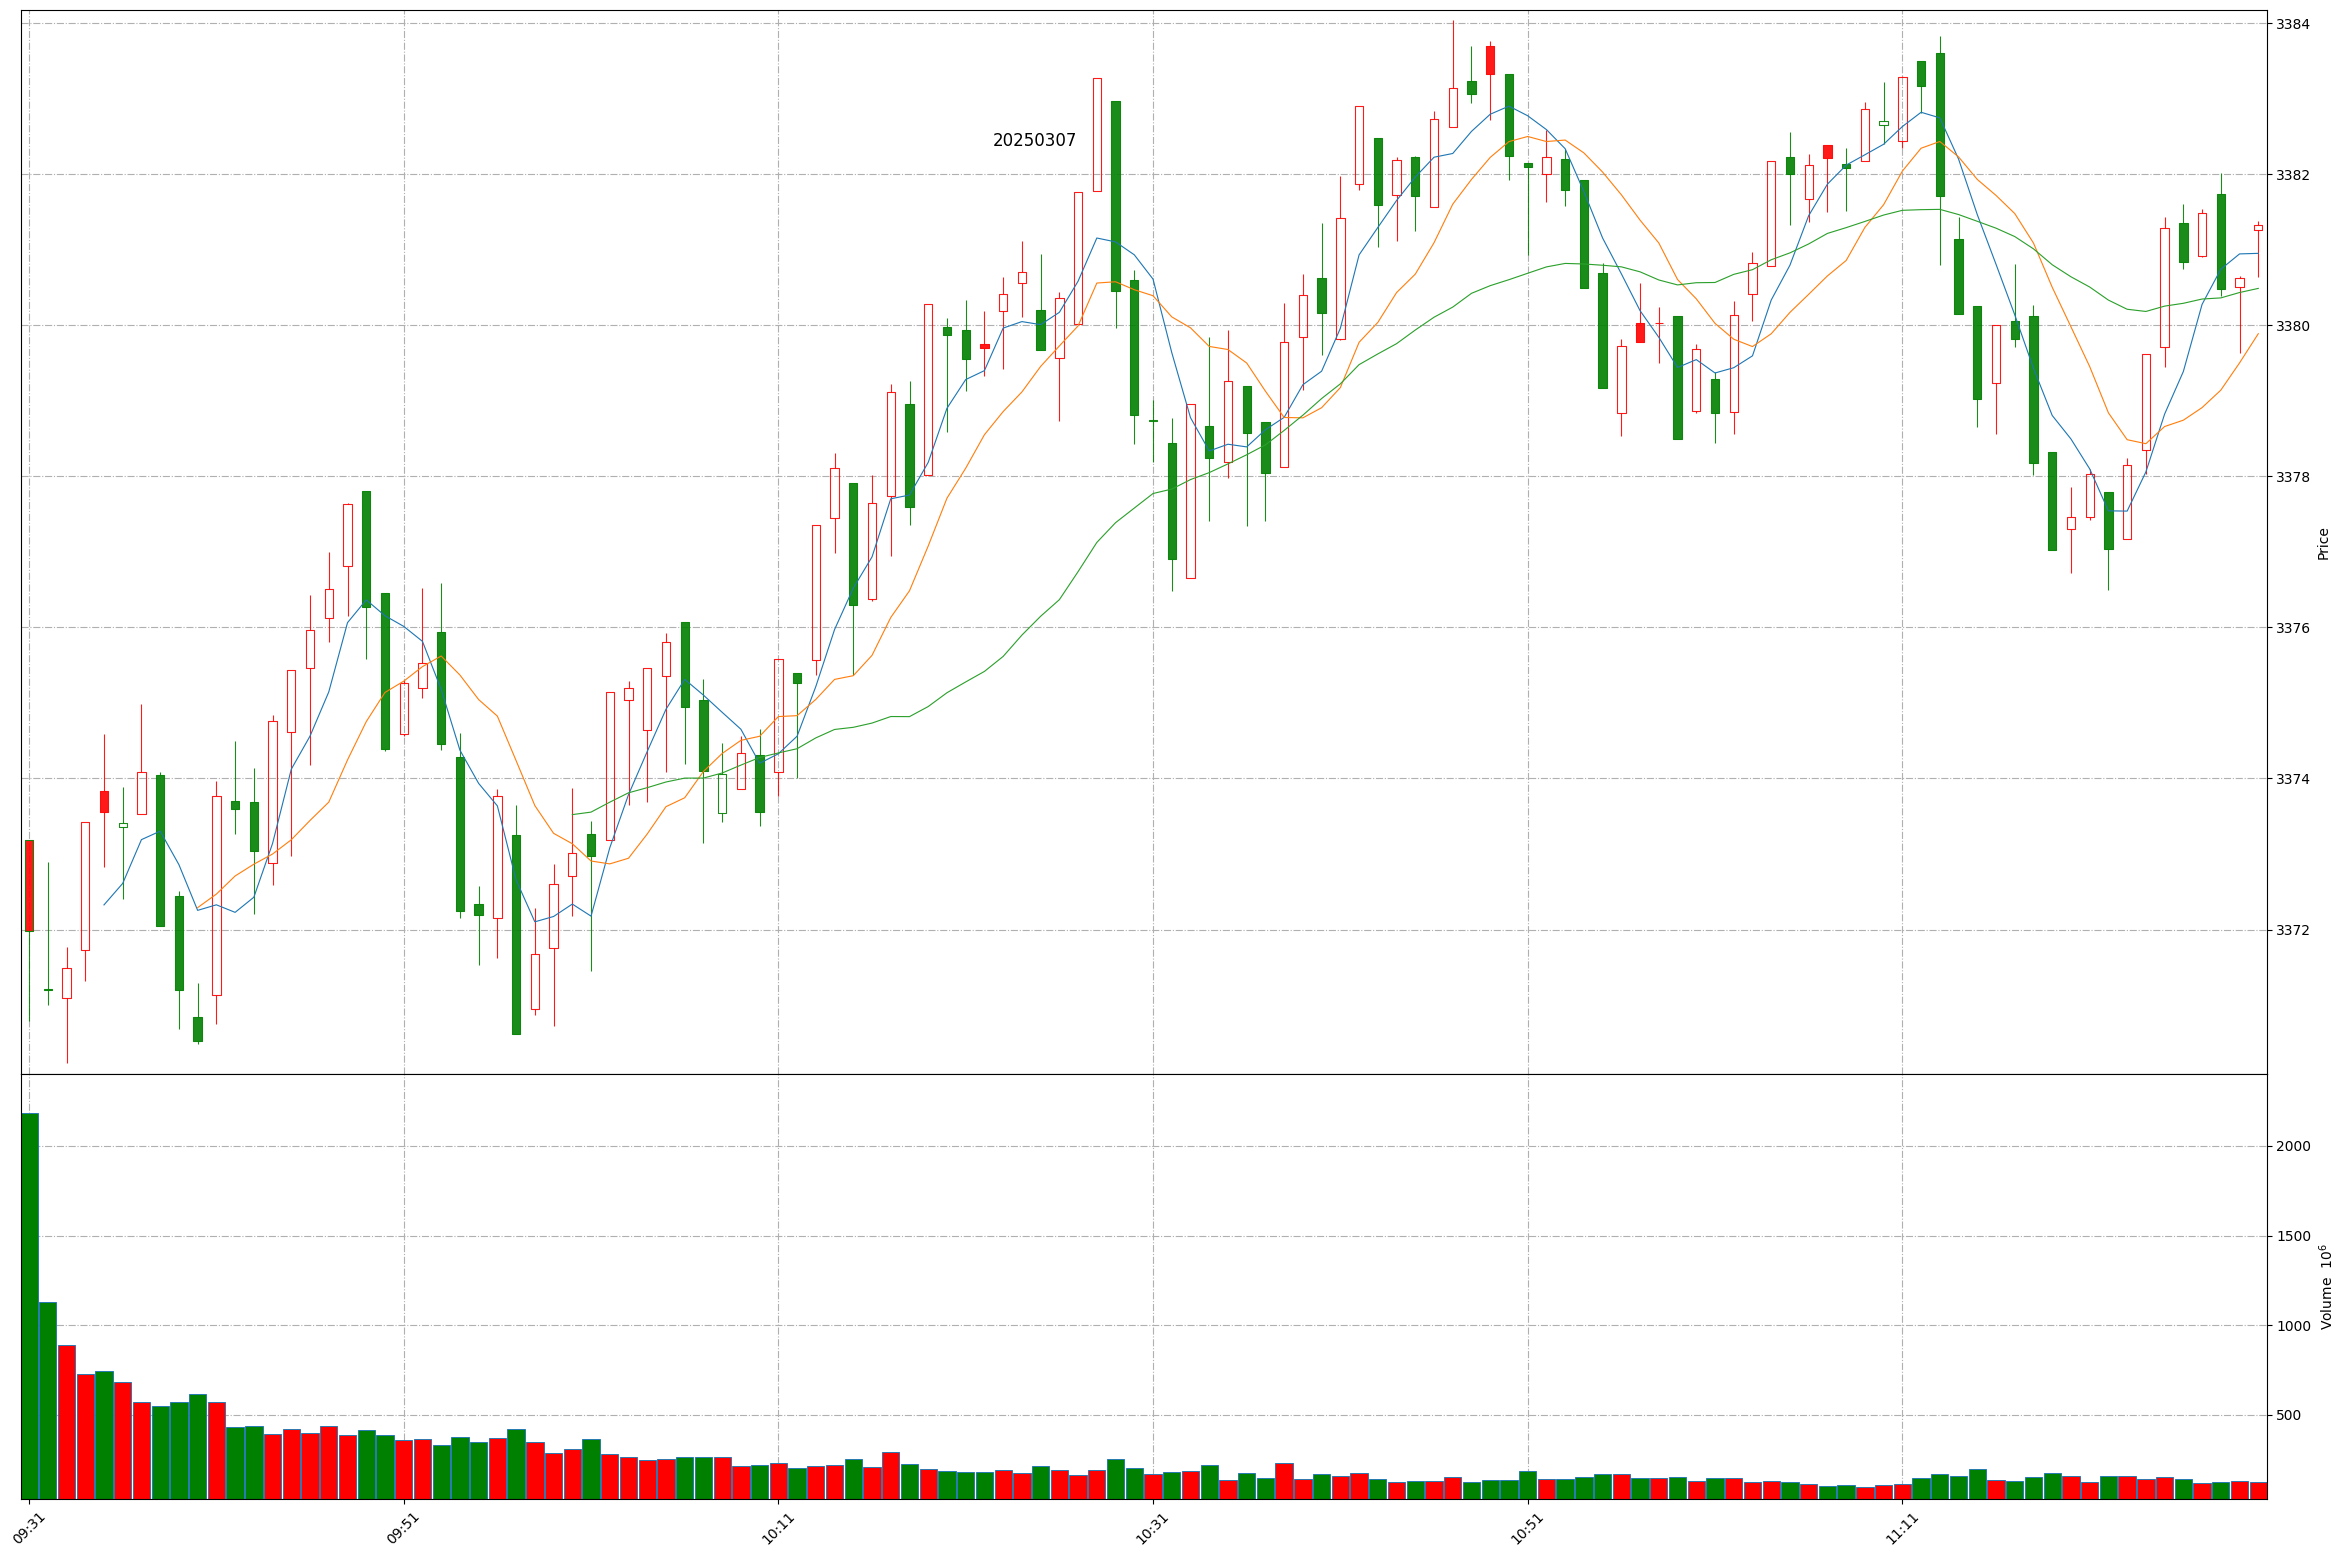
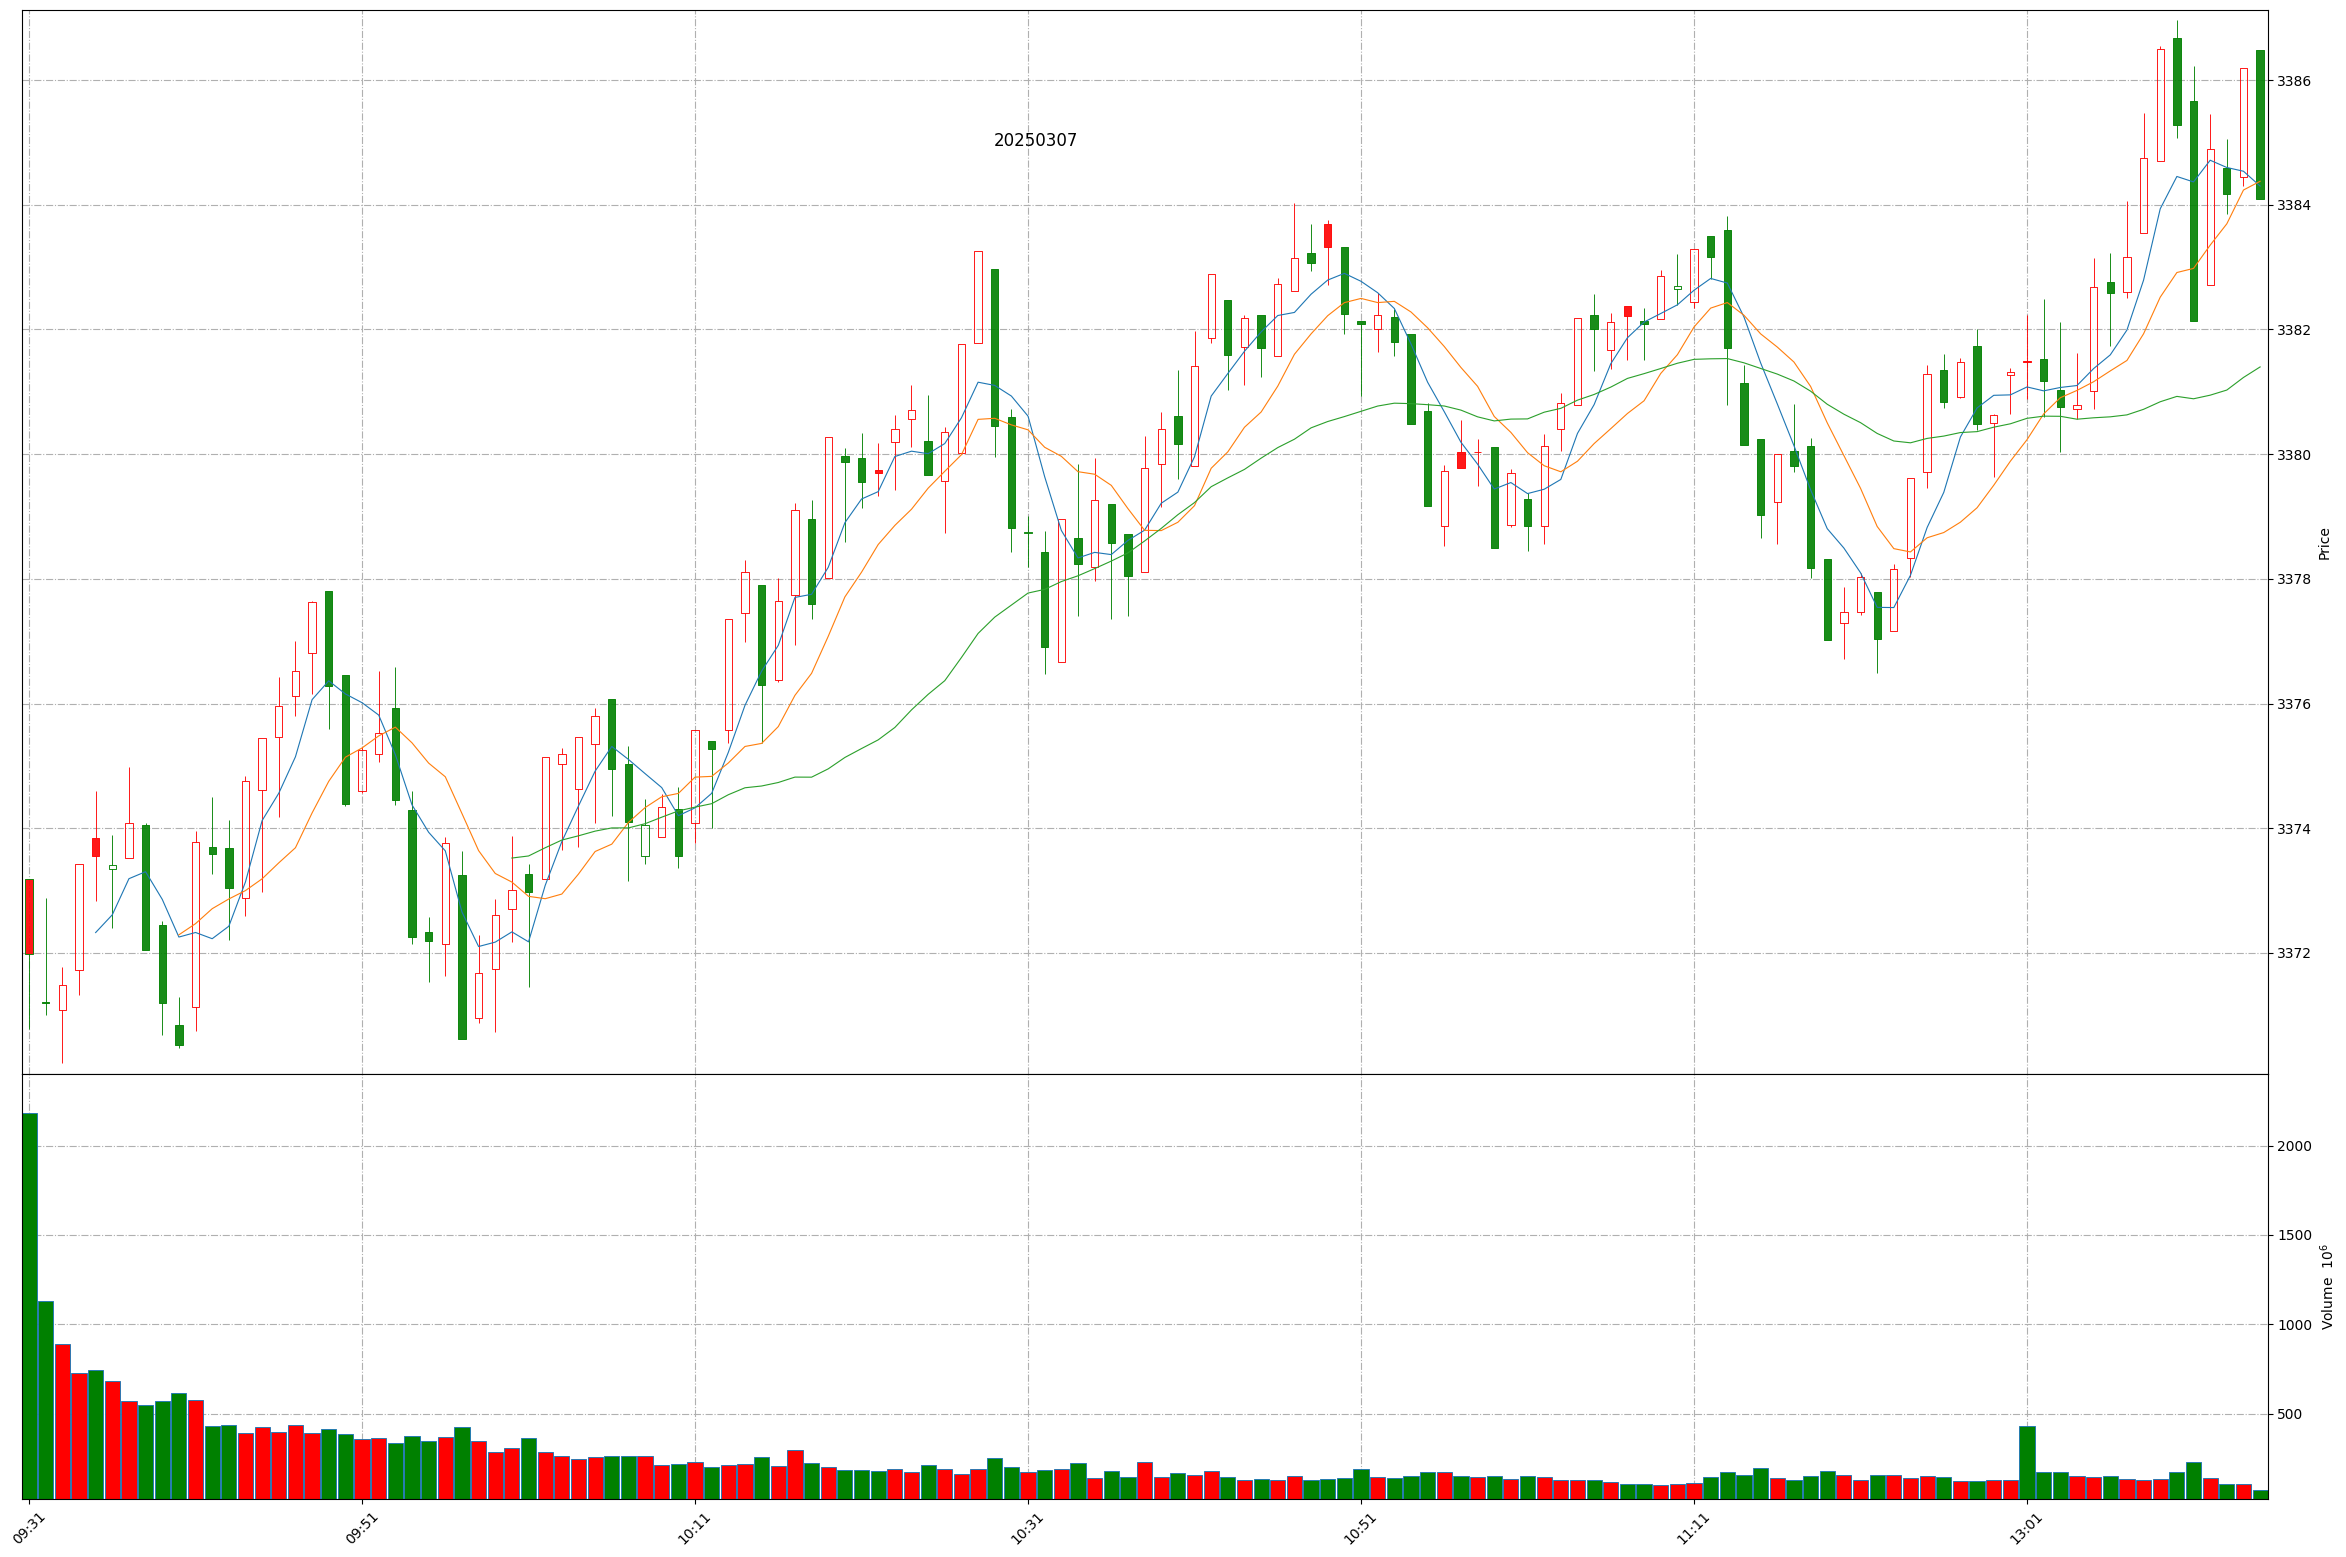
Github action update at 2025-03-07 13:14:52.

Changed region(s): [[0.0, 0.0308, 0.965, 0.6782], [0.0, 0.8324, 0.965, 0.9865]]

diff --git a/README.md b/README.md
@@ -1,11 +1,11 @@
 
 # Daily-A-share-market-quotes 每日 A 股指数（5min 更新）- 20250307
 
-### 上证指数 20250307 11:44
+### 上证指数 20250307 13:14
 ![](./fig/2025/3/20250307-sh000001.png)
 
-### 深证成指 20250307 11:44
+### 深证成指 20250307 13:14
 ![](./fig/2025/3/20250307-sz399001.png)
 
-### 北证50 20250307 11:44
+### 北证50 20250307 13:14
 ![](./fig/2025/3/20250307-bj899050.png)
